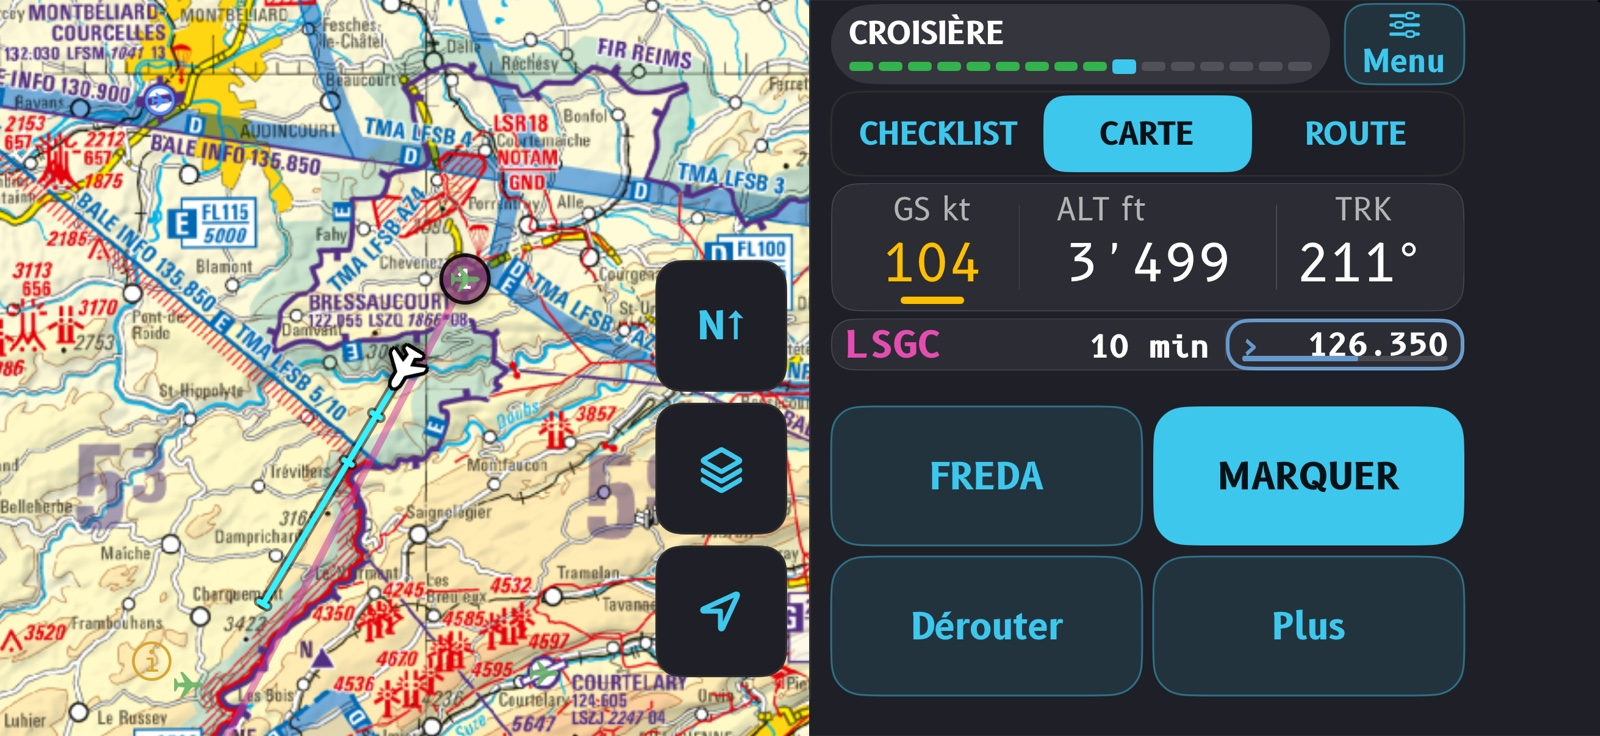
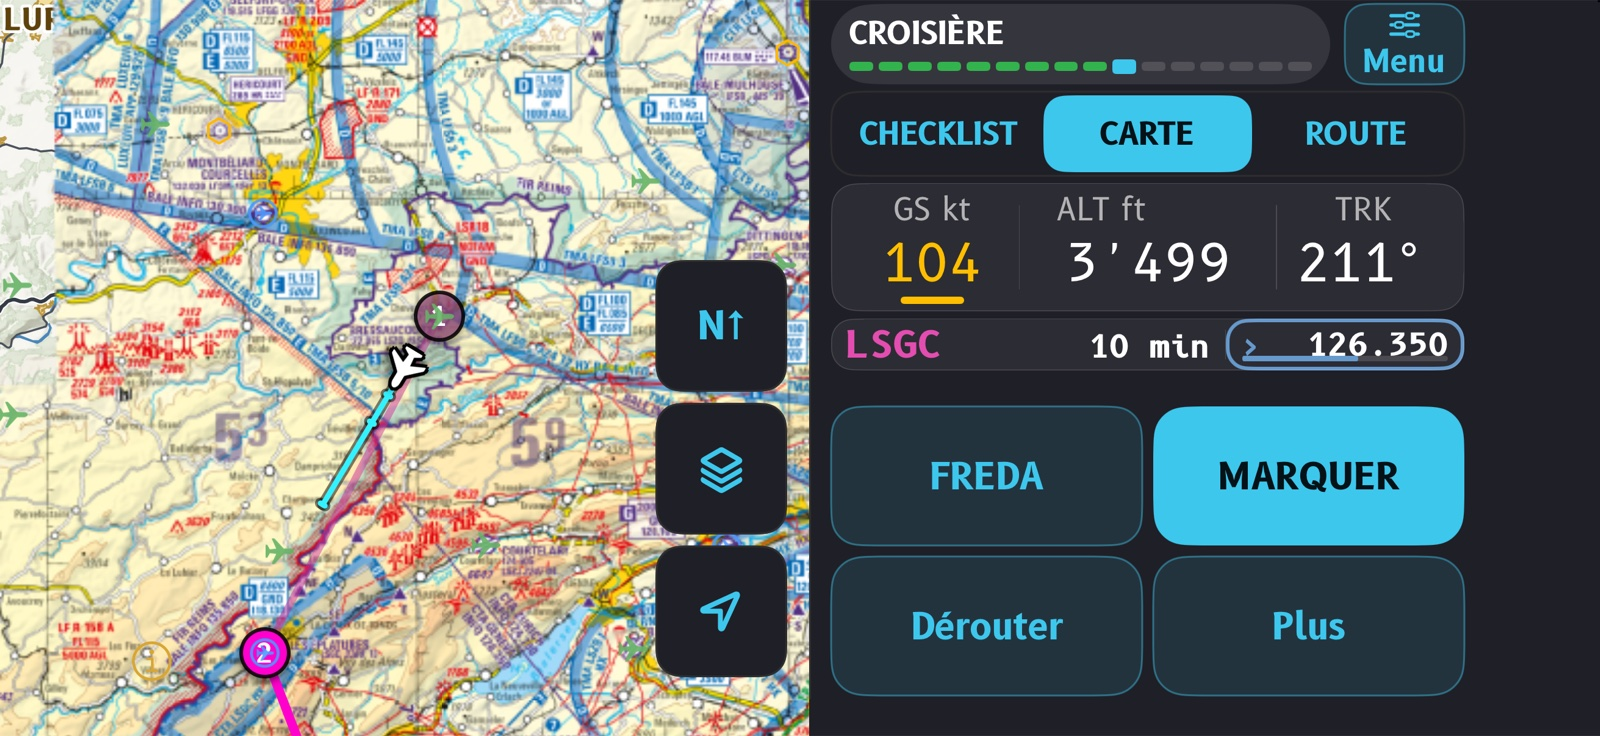
website: the French iPhone on its side, retaken at 6.8.1
The 6.8.1 run of the landscape shot (CLAUDE/shots/6.8.1-20261103-1645) matched the English and German ones and
changed the French: 6.8.0's French capture had stopped its pinch closer than the other two, so it showed less of the
route. Now the three languages show the same view. CAPTURED_FROM 6.8.1.

diff --git a/src/lib/shots.ts b/src/lib/shots.ts
@@ -15,7 +15,7 @@ export interface Shot { ipad: string; iphone: string; label: string; }
 // The app version the whole set was captured from, or checked against when a release changed none of
 // its screens (6.3.0). Bump it with every recapture: a build warns while the latest release is a newer
 // minor version than this (`warnIfShotsAreOld`).
-export const CAPTURED_FROM = '6.8.0';
+export const CAPTURED_FROM = '6.8.1';
 
 // Each URL carries a hash of the image (`?v=1a2b3c4d`), read at build time, so a recaptured image is
 // a new URL. The file names never change, and Cloudflare lets a browser keep an image for 4 hours:
